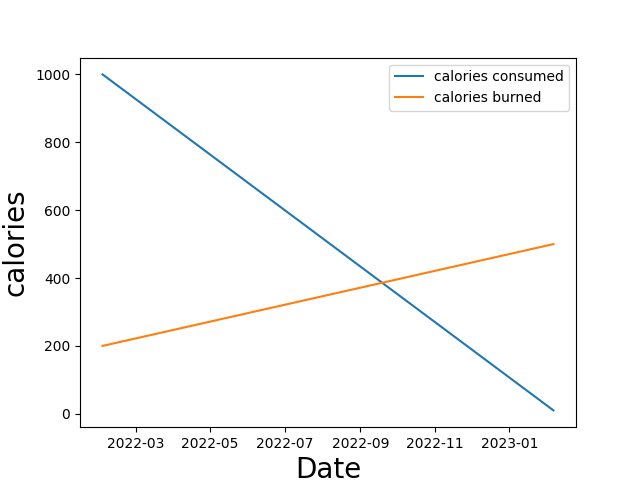
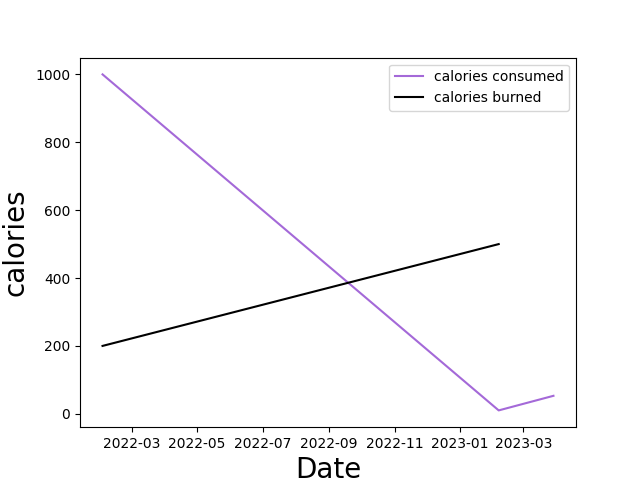
graph doesnt give that error no more

diff --git a/app/templates/edit_tracker.html b/app/templates/edit_tracker.html
@@ -42,7 +42,7 @@
             <tr>
                 <td>{{food.c_name}}</td>
                 <td>{{food.c_input_date}}</td>
-                <td></td>
+                <td>{{food.c_calories_total}}</td>
                 <td><a href="/c_delete_row/{{ food.cal_id }}">Delete Food</a></td>
             </tr>
             {% endfor %}   

diff --git a/app/routes.py b/app/routes.py
@@ -1,4 +1,5 @@
 #Imports
+
 from operator import methodcaller
 #from app import app as appl
 from app import API_KEY, app
@@ -652,6 +653,7 @@ def add_workout():
 @app.route('/graph')
 @login_required
 def graph():
+    plt.switch_backend('PDF')
     #connecting to the database 
     IP = environ.get('MYSQL_IP')
     USERNAME = environ.get('MYSQL_USER')
@@ -664,15 +666,13 @@ def graph():
     calories_df = pd.read_sql(
     text(f"SELECT c_input_date, c_calories_total FROM calorie WHERE fk_user_id = {current_user.id}"),
     con=engine.connect())
-    #calories_df.plot(x="c_input_date", y="c_calories_total", label="calories consumed")
 
     exercises_df = pd.read_sql(
     text(f"SELECT e_input_date, e_total_calories FROM exercise WHERE fk_user_id = {current_user.id}"),
     con=engine.connect())
-    #exercises_df.plot(x="e_input_date", y="e_total_calories", label="calories burned")
 
-    plt.plot("c_input_date", "c_calories_total", data=calories_df, label="calories consumed")
-    plt.plot("e_input_date", "e_total_calories", data=exercises_df, label="calories burned")
+    plt.plot("c_input_date", "c_calories_total", data=calories_df, label="calories consumed", color='#A469D8')
+    plt.plot("e_input_date", "e_total_calories", data=exercises_df, label="calories burned", color='#000000')
 
     plt.xlabel("Date",  size = 20)
     plt.ylabel("calories", size = 20)
